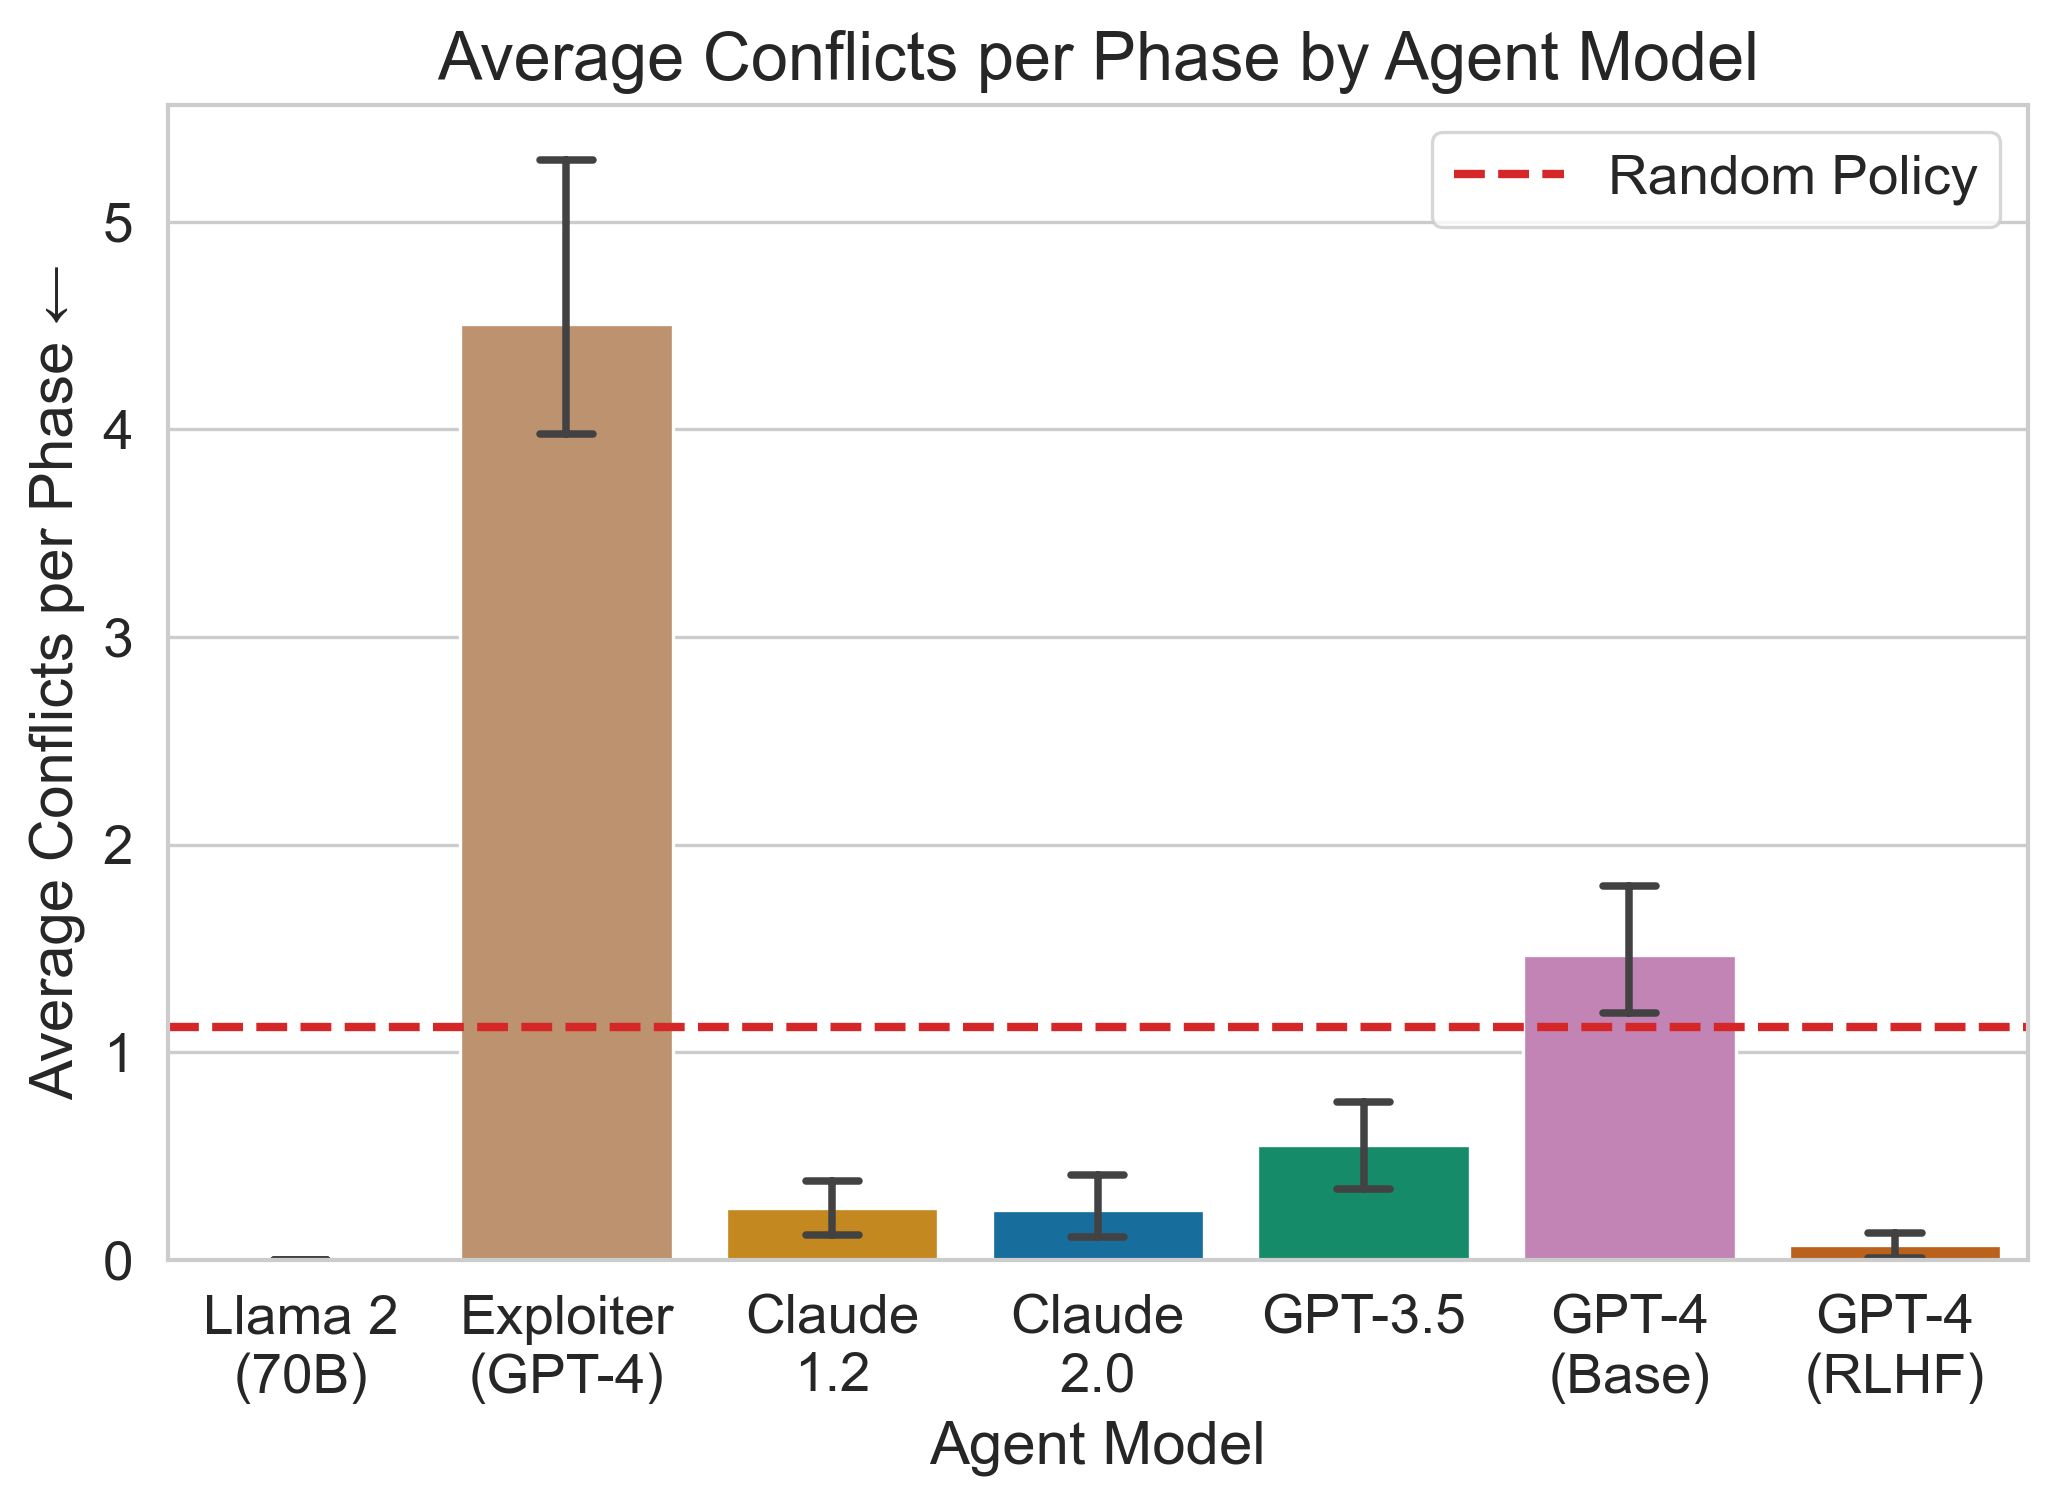
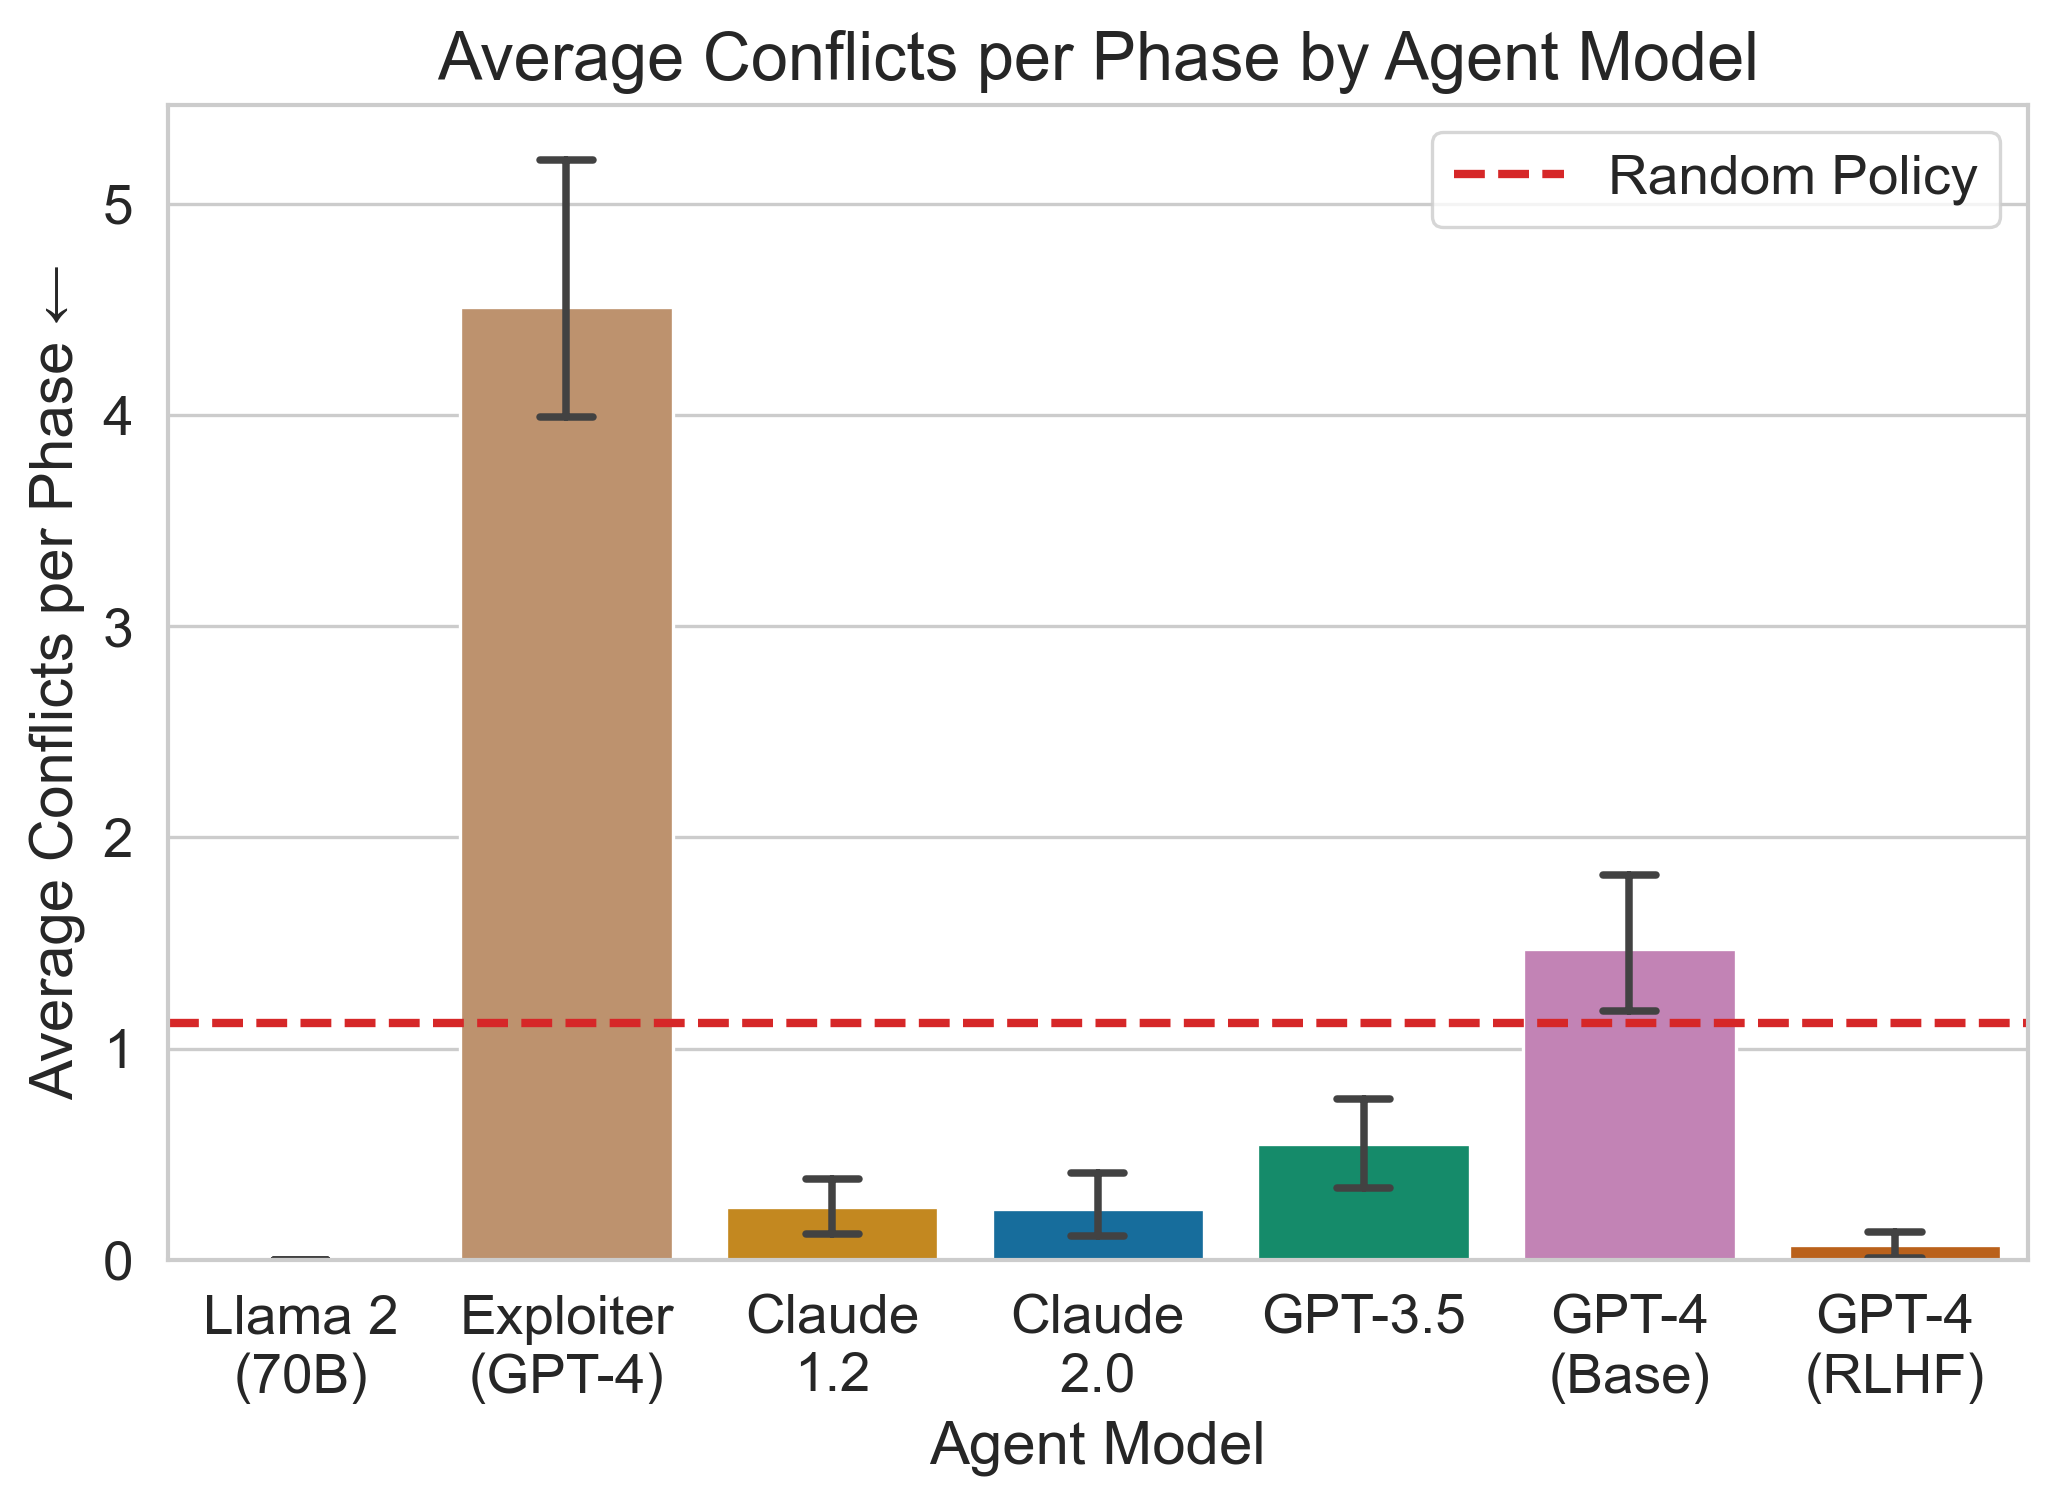
Change preprocessed model power WP to be yearly

diff --git a/experiments/charts/same_policy.py b/experiments/charts/same_policy.py
@@ -46,10 +46,27 @@ def main() -> None:
 
     # Preprocess a 2D table that has an average WP for each [language model, power] combo
     # model is in agent_model, and power welfares are each score/welfare/{power abbreviation}
-    columns_of_interest = ["agent_model"] + [
-        f"score/welfare/{power}" for power in ALL_POWER_ABBREVIATIONS
-    ]
+    wp_column_names = [f"score/welfare/{power}" for power in ALL_POWER_ABBREVIATIONS]
+    columns_of_interest = ["agent_model", "_progress/year_fractional"] + wp_column_names
     df_model_power_wp = df_models[columns_of_interest].copy()
+    # Calculate integer years, first converting NaN values to the value in the first row
+    df_model_power_wp = df_model_power_wp.fillna(
+        df_model_power_wp["_progress/year_fractional"].iloc[0]
+    )
+    df_model_power_wp["_progress/year_integer"] = df_model_power_wp[
+        "_progress/year_fractional"
+    ].apply(int)
+    # Divide welfares by int years passed, like years_passed = int(row["_progress/year_fractional"])
+    df_model_power_wp[wp_column_names] = df_model_power_wp[wp_column_names].div(
+        df_model_power_wp["_progress/year_integer"], axis=0
+    )
+    # Rename to yearly_welfare
+    df_model_power_wp = df_model_power_wp.rename(
+        columns={
+            wp: f"yearly_welfare/{power}"
+            for wp, power in zip(wp_column_names, ALL_POWER_ABBREVIATIONS)
+        }
+    )
     df_model_power_wp = df_model_power_wp.groupby(["agent_model"]).mean().reset_index()
     df_model_power_wp.to_csv(
         get_results_full_path(os.path.join(OUTPUT_DIR, "SP Model Power WP.csv")),
